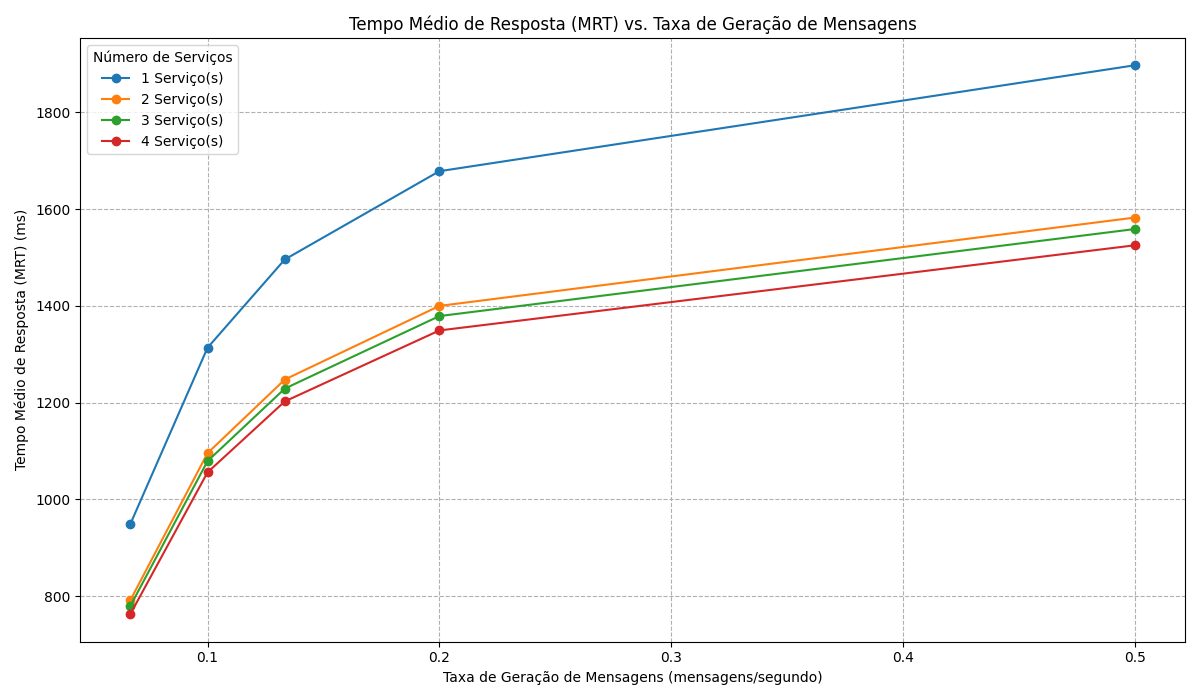
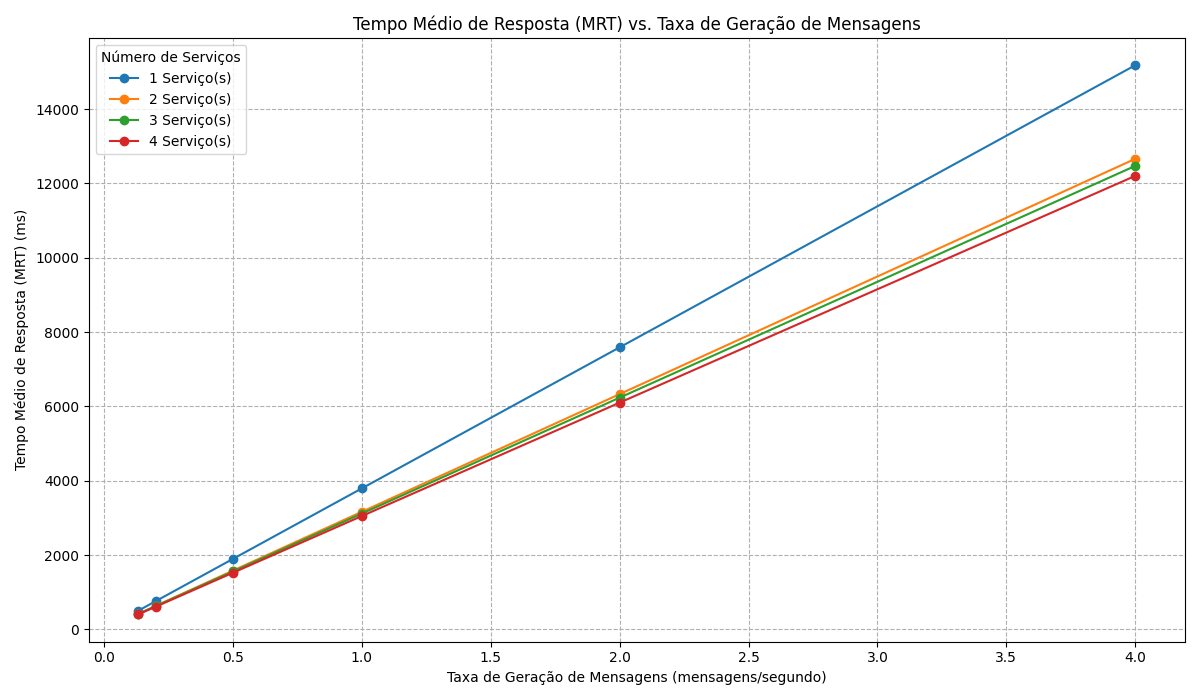
fix: corrige plotagem dos graficos

diff --git a/graphs/graficos.py b/graphs/graficos.py
@@ -135,13 +135,13 @@ if parsed_data_single_log:
     plot_mrt_vs_num_services(parsed_data_single_log, os.path.basename(log_file_to_parse))
 
     # Arrival delays em milissegundos (quanto menor, maior a taxa de chegada)
-    arrival_delays = [15000, 10000, 7500, 5000, 2000]  # crescente taxa de chegada
+    arrival_delays = [7500, 5000, 2000, 1000, 500, 250]  # crescente taxa de chegada
 
-    min_delay = min(arrival_delays)
-    max_delay = max(arrival_delays)
+    real_arrival_delay = 2000  # <--- altere este valor para o usado no seu experimento real
 
     for delay in arrival_delays:
-        fator = 0.5 + ((max_delay - delay) / (max_delay - min_delay)) * 0.5
+        # Fator proporcional ao inverso da taxa (taxa = 1/delay)
+        fator = real_arrival_delay / delay
         simulated_experimental_data[delay] = [(s, mrt * fator) for s, mrt in parsed_data_single_log]
 
 if simulated_experimental_data:
